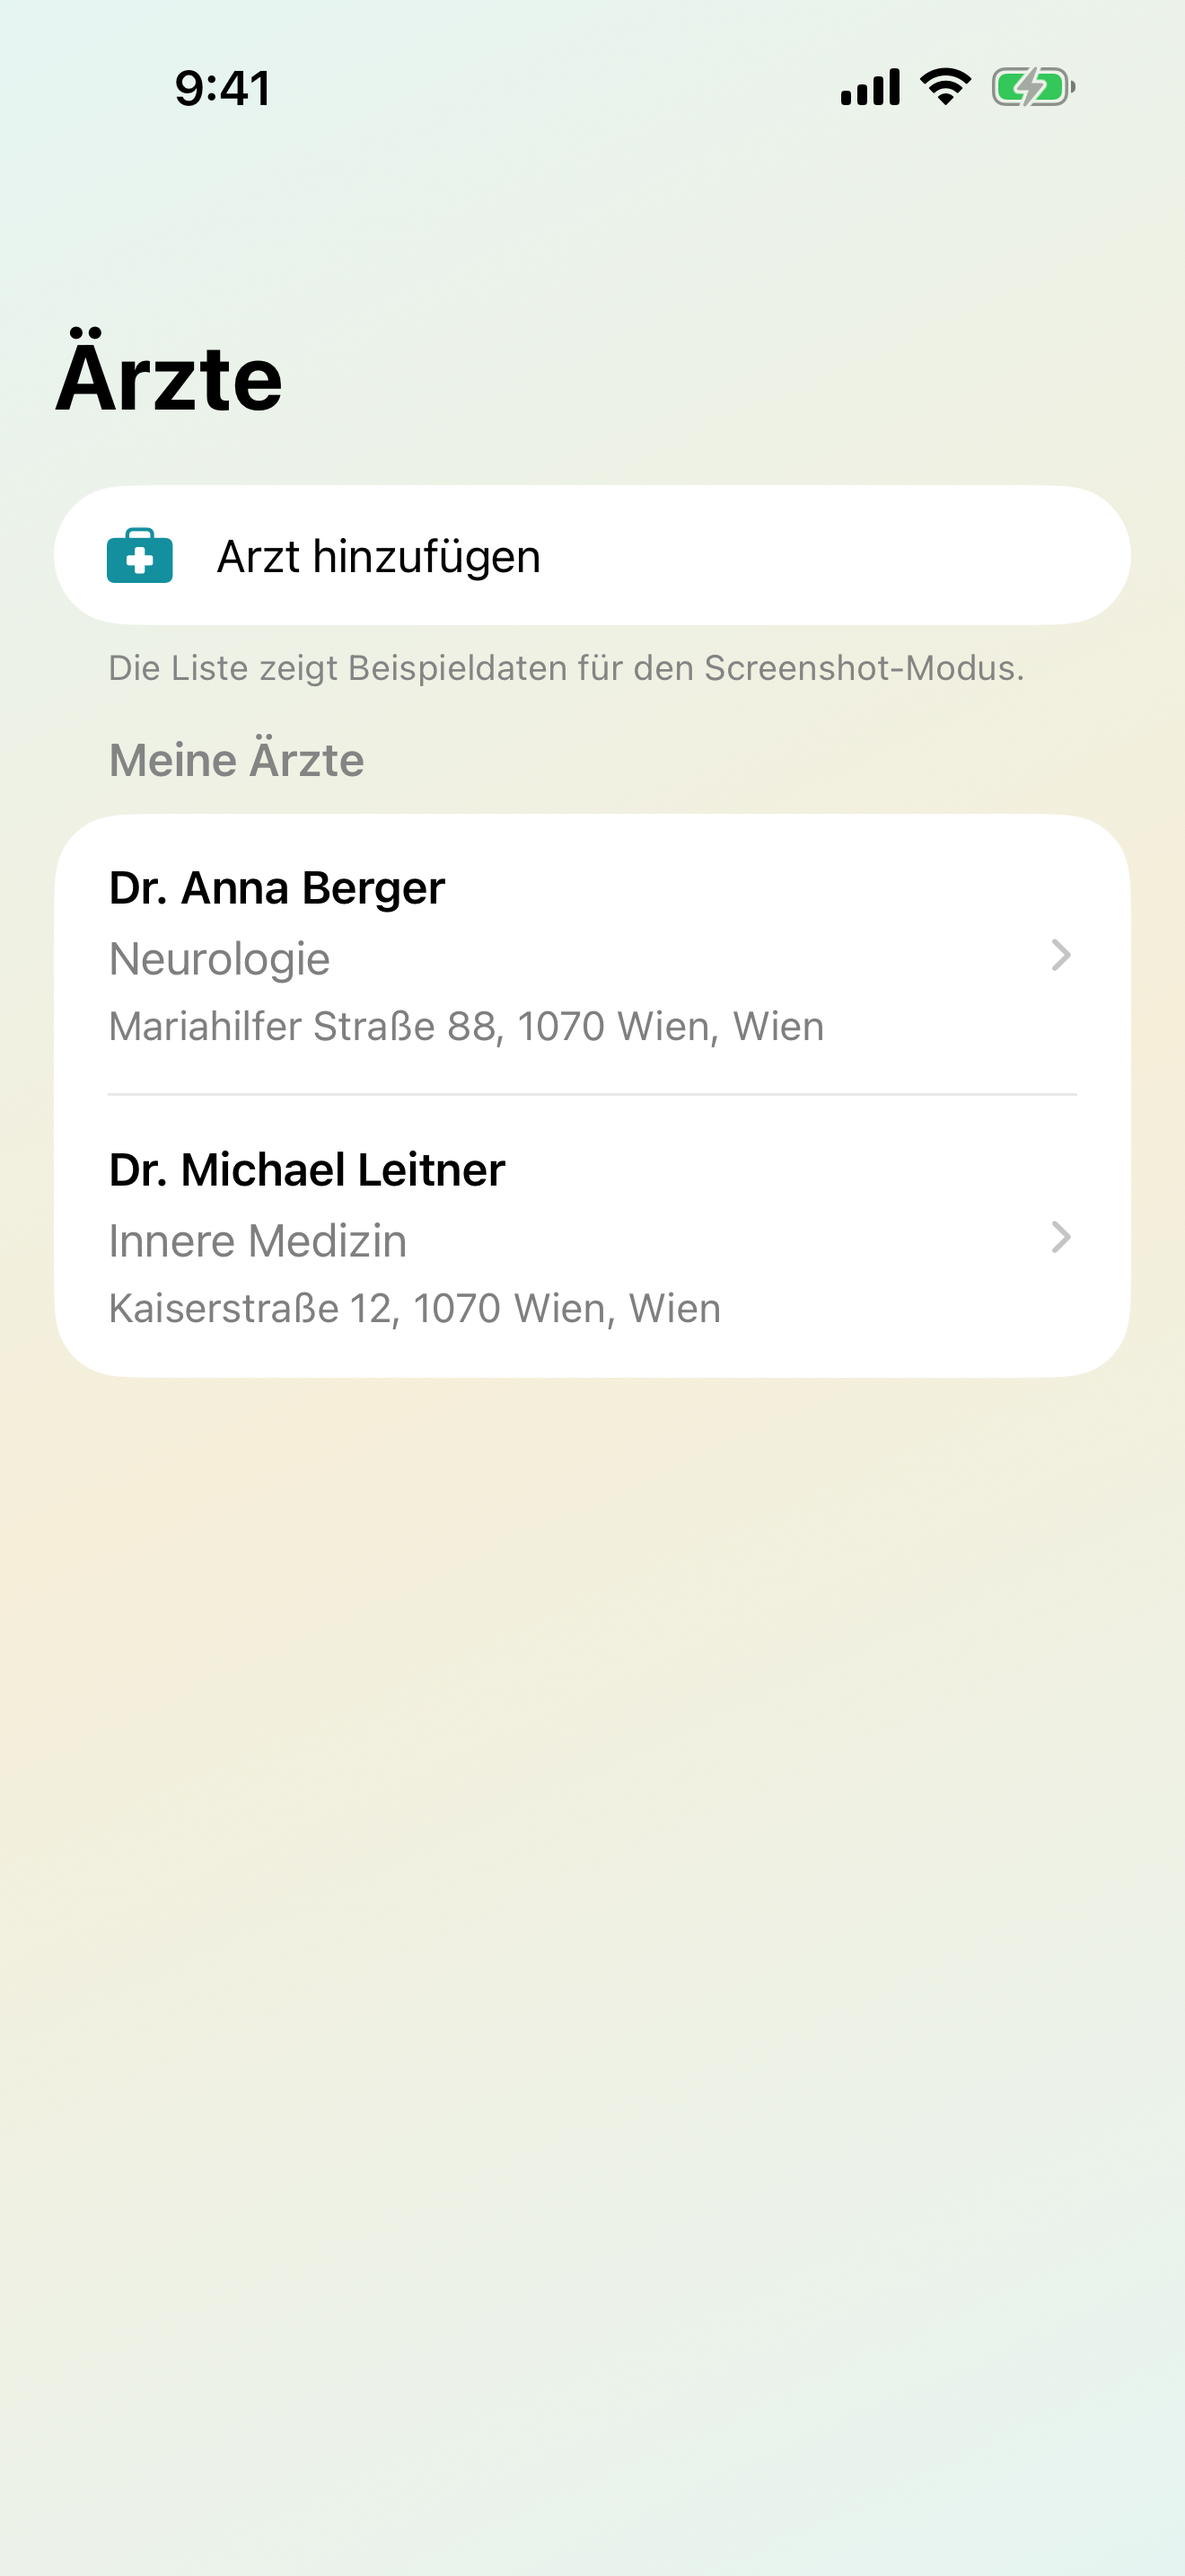
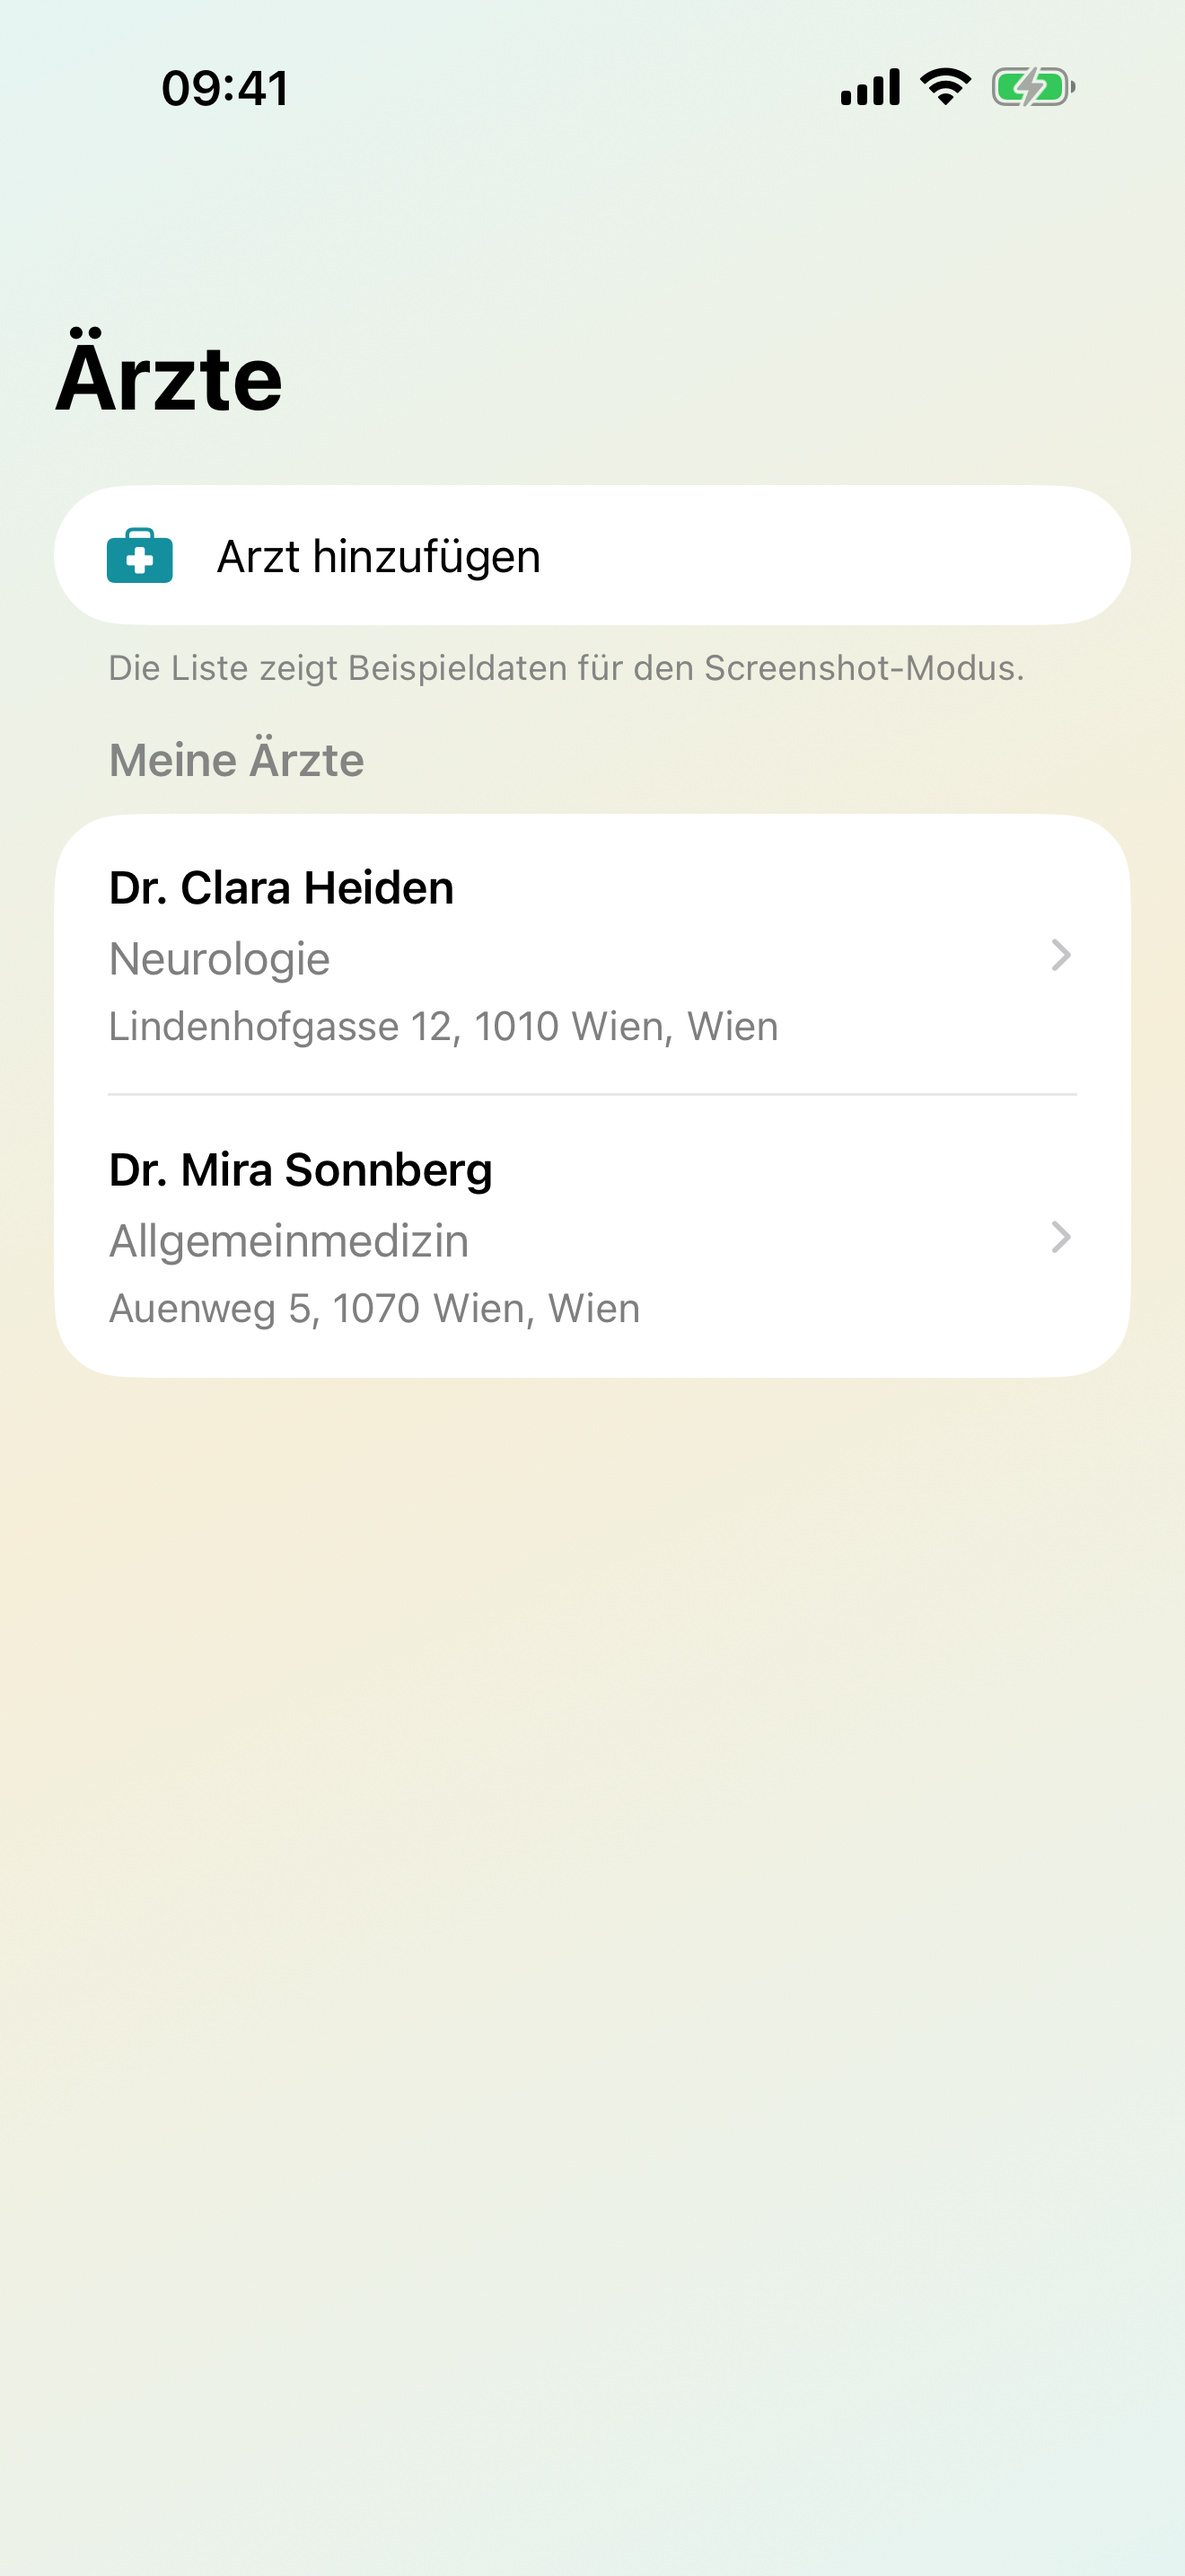
Use dummy doctor data in screenshots

diff --git a/MigraineTracker/Sources/App/ScreenshotSupport.swift b/MigraineTracker/Sources/App/ScreenshotSupport.swift
@@ -81,7 +81,6 @@ enum ScreenshotBootstrap {
         )
 
         MedicationCatalog.importSeedDataIfNeeded(into: container)
-        DoctorDirectoryCatalog.importSeedDataIfNeeded(into: container)
 
         let seed = try ScreenshotSeedFactory.populate(seedName: seedName, in: container)
         let appLogStore = AppLogStore()
@@ -214,30 +213,30 @@ private enum ScreenshotSeedFactory {
             id: primaryDoctorID,
             createdAt: calendar.date(byAdding: .month, value: -4, to: now) ?? now,
             updatedAt: now,
-            name: "Dr. Anna Berger",
+            name: "Dr. Clara Heiden",
             specialty: "Neurologie",
-            street: "Mariahilfer Straße 88",
+            street: "Lindenhofgasse 12",
             city: "Wien",
             state: "Wien",
-            postalCode: "1070",
-            phone: "+43 1 555 44 33",
-            email: "ordination@berger-neuro.at",
-            notes: "Spezialistin für Migräneprophylaxe.",
+            postalCode: "1010",
+            phone: "+43 1 000 12 34",
+            email: "ordination.heiden@example.com",
+            notes: "Fiktive Beispielärztin für Migräneprophylaxe.",
             sourceRaw: DoctorSource.oegkDirectory.rawValue
         )
         let secondDoctor = Doctor(
             id: secondaryDoctorID,
             createdAt: calendar.date(byAdding: .month, value: -2, to: now) ?? now,
             updatedAt: now,
-            name: "Dr. Michael Leitner",
-            specialty: "Innere Medizin",
-            street: "Kaiserstraße 12",
+            name: "Dr. Mira Sonnberg",
+            specialty: "Allgemeinmedizin",
+            street: "Auenweg 5",
             city: "Wien",
             state: "Wien",
             postalCode: "1070",
-            phone: "+43 1 222 10 90",
-            email: "praxis@leitner.at",
-            notes: "Hausarzt für allgemeine Verlaufskontrollen.",
+            phone: "+43 1 000 56 78",
+            email: "praxis.sonnberg@example.com",
+            notes: "Fiktiver Beispielkontakt für Verlaufskontrollen.",
             sourceRaw: DoctorSource.manual.rawValue
         )
 
@@ -247,8 +246,8 @@ private enum ScreenshotSeedFactory {
             updatedAt: now,
             scheduledAt: calendar.date(bySettingHour: 14, minute: 0, second: 0, of: nextWeek) ?? nextWeek,
             endsAt: calendar.date(bySettingHour: 14, minute: 45, second: 0, of: nextWeek),
-            practiceName: "Ordination Dr. Berger",
-            addressText: "Mariahilfer Straße 88, 1070 Wien",
+            practiceName: "Ordination Dr. Clara Heiden",
+            addressText: "Lindenhofgasse 12, 1010 Wien",
             note: "Gespräch zu Triggern und Prophylaxe.",
             reminderEnabled: true,
             reminderLeadTimeMinutes: 24 * 60,
@@ -262,8 +261,8 @@ private enum ScreenshotSeedFactory {
             updatedAt: now,
             scheduledAt: calendar.date(bySettingHour: 9, minute: 30, second: 0, of: nextMonth) ?? nextMonth,
             endsAt: nil,
-            practiceName: "Praxis Dr. Leitner",
-            addressText: "Kaiserstraße 12, 1070 Wien",
+            practiceName: "Praxis Dr. Mira Sonnberg",
+            addressText: "Auenweg 5, 1070 Wien",
             note: "Kontrolle Blutdruck und Begleitmedikation.",
             reminderEnabled: true,
             reminderLeadTimeMinutes: 120,
@@ -283,6 +282,9 @@ private enum ScreenshotSeedFactory {
         context.insert(secondDoctor)
         context.insert(primaryAppointment)
         context.insert(secondAppointment)
+        for entry in sampleDoctorDirectoryEntries() {
+            context.insert(entry)
+        }
 
         try context.save()
 
@@ -291,6 +293,44 @@ private enum ScreenshotSeedFactory {
             primaryDoctorID: primaryDoctorID,
             newEntryDate: calendar.date(bySettingHour: 7, minute: 40, second: 0, of: now) ?? now
         )
+    }
+
+    private static func sampleDoctorDirectoryEntries() -> [DoctorDirectoryEntry] {
+        [
+            DoctorDirectoryEntry(
+                id: "screenshot-doctor-clara-heiden",
+                name: "Dr. Clara Heiden",
+                specialty: "Neurologie",
+                street: "Lindenhofgasse 12",
+                city: "Wien",
+                state: "Wien",
+                postalCode: "1010",
+                sourceLabel: "Musterverzeichnis für App-Store-Screenshots",
+                sourceURL: "https://example.com/app-store-screenshots"
+            ),
+            DoctorDirectoryEntry(
+                id: "screenshot-doctor-mira-sonnberg",
+                name: "Dr. Mira Sonnberg",
+                specialty: "Allgemeinmedizin",
+                street: "Auenweg 5",
+                city: "Wien",
+                state: "Wien",
+                postalCode: "1070",
+                sourceLabel: "Musterverzeichnis für App-Store-Screenshots",
+                sourceURL: "https://example.com/app-store-screenshots"
+            ),
+            DoctorDirectoryEntry(
+                id: "screenshot-doctor-jonas-erlach",
+                name: "Dr. Jonas Erlach",
+                specialty: "Schmerzambulanz",
+                street: "Parkring 8",
+                city: "Graz",
+                state: "Steiermark",
+                postalCode: "8010",
+                sourceLabel: "Musterverzeichnis für App-Store-Screenshots",
+                sourceURL: "https://example.com/app-store-screenshots"
+            )
+        ]
     }
 }
 

diff --git a/MigraineTracker/Sources/Features/Doctors/DoctorsHubView.swift b/MigraineTracker/Sources/Features/Doctors/DoctorsHubView.swift
@@ -94,7 +94,7 @@ struct DoctorDetailView: View {
                         detailRow("E-Mail", doctor.email)
                     }
 
-                    detailRow("Quelle", doctor.source.rawValue)
+                    detailRow("Quelle", AppStoreScreenshotMode.isEnabled ? "Musterverzeichnis" : doctor.source.rawValue)
                 }
 
                 if !doctor.notes.isEmpty {
